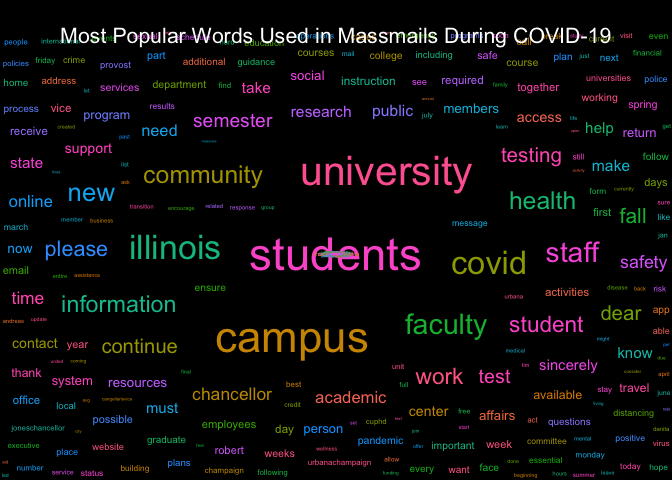
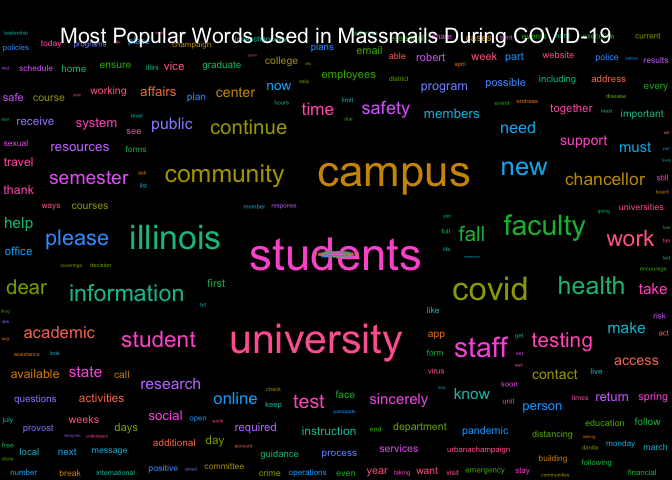
Re-build README.Rmd and Graphs

Changed region(s): [[0.0, 0.0625, 1.0, 1.0], [0.1875, 0.4688, 0.3438, 0.5625], [0.6562, 0.4375, 0.7188, 0.5]]

diff --git a/README.md b/README.md
@@ -17,7 +17,7 @@ The archive may be viewed here:
 
 <https://massmail.illinois.edu/massmailArchive>
 
-Data has **1272** observations and **7** variables:
+Data has **1273** observations and **7** variables:
 
   - `datetime`: Date and time when the email was sent in the form of
     `YYYY-MM-DD HMS` with either CDT or CST.
@@ -210,16 +210,16 @@ head(most_popular_words, 10) %>%
 
 | word        | freq |
 | :---------- | ---: |
-| students    |  792 |
-| university  |  742 |
+| students    |  793 |
+| university  |  748 |
 | campus      |  730 |
 | illinois    |  467 |
-| covid       |  420 |
+| covid       |  422 |
 | faculty     |  392 |
-| community   |  385 |
+| community   |  387 |
 | information |  342 |
 | staff       |  320 |
-| health      |  301 |
+| health      |  304 |
 
 #### Wordcloud
 
